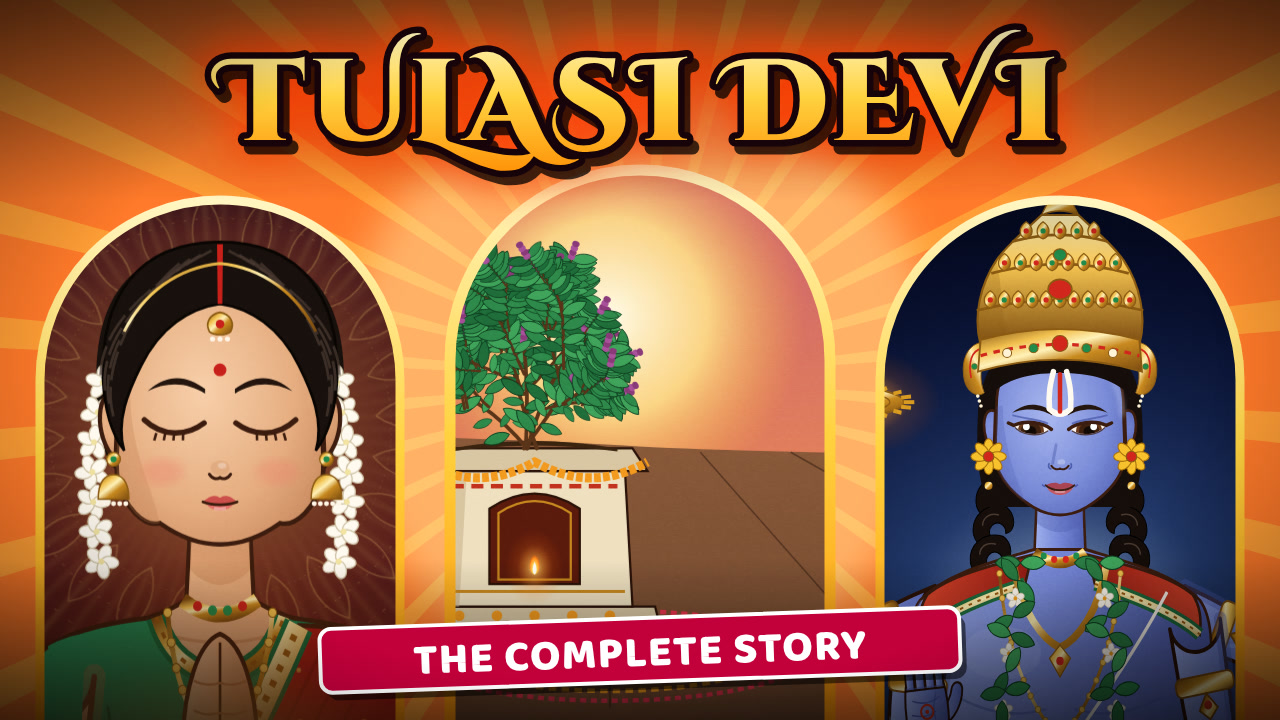
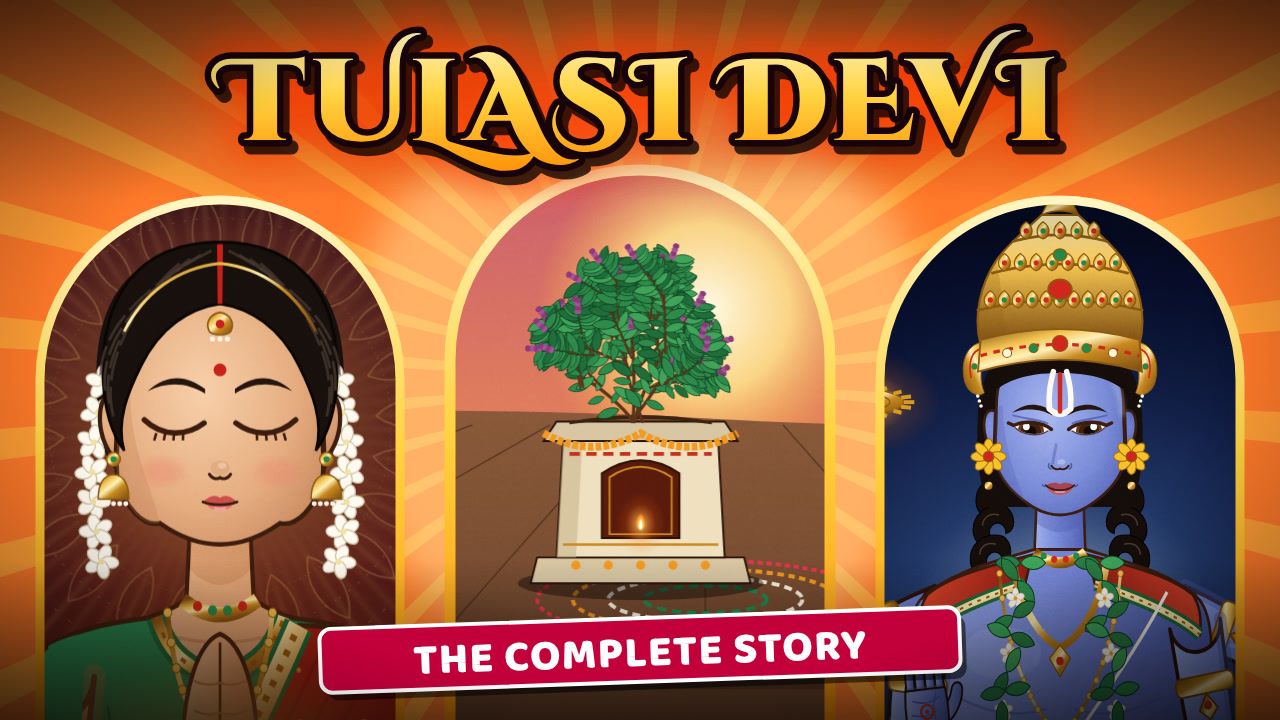
Thumbnail 5: centre Tulasi plant and katte in the middle arch
Claude-Session: https://claude.ai/code/session_01X3ArEdZK7W9b78YVvUKCgo

Changed region(s): [[0.3438, 0.2444, 0.6562, 0.8861], [0.4062, 0.9472, 0.5938, 0.9778]]

diff --git a/devotional-studio/thumbnails/thumbs.js b/devotional-studio/thumbnails/thumbs.js
@@ -124,7 +124,7 @@ const long = {
       <circle cx="640" cy="380" r="300" fill="#fff4b0" opacity=".45" filter="url(#tSoft)"/>
       <clipPath id="a5l"><path d="M40 760 L40 380.0 A 180.0 180.0 0 0 1 400 380.0 L400 760Z"/></clipPath><clipPath id="a5c"><path d="M450 760 L450 360.0 A 190.0 190.0 0 0 1 830 360.0 L830 760Z"/></clipPath><clipPath id="a5r"><path d="M880 760 L880 380.0 A 180.0 180.0 0 0 1 1240 380.0 L1240 760Z"/></clipPath>
       <g clip-path="url(#a5l)"><rect x="40" y="200" width="360" height="560" fill="#7a1030"/>${C(120, [560, 40, 800, 1000], [-20, 200, 480, 600])}</g>
-      <g clip-path="url(#a5c)">${C(420, [640, 280, 640, 800], [450, 170, 380, 590])}</g>
+      <g clip-path="url(#a5c)">${C(420, [516, 260, 600, 932], [450, 170, 380, 590])}</g>
       <g clip-path="url(#a5r)"><rect x="880" y="200" width="360" height="560" fill="#0a1a5a"/>${C(365, [540, 0, 840, 1000], [840, 200, 440, 600])}</g>
       <path d="M40 760 L40 380.0 A 180.0 180.0 0 0 1 400 380.0 L400 760Z" fill="none" stroke="url(#tGold)" stroke-width="9"/><path d="M450 760 L450 360.0 A 190.0 190.0 0 0 1 830 360.0 L830 760Z" fill="none" stroke="url(#tGold)" stroke-width="11"/><path d="M880 760 L880 380.0 A 180.0 180.0 0 0 1 1240 380.0 L1240 760Z" fill="none" stroke="url(#tGold)" stroke-width="9"/>
       <rect y="0" width="1280" height="200" fill="url(#tTopFade)" opacity=".6"/>
